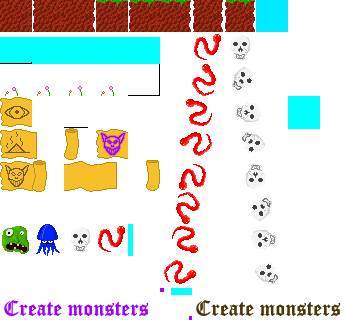
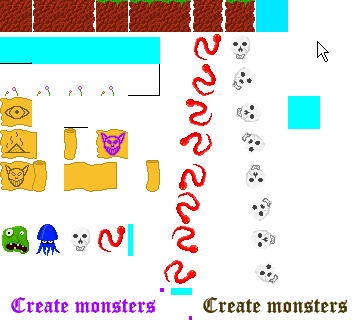
Roadmap gif. Moteur du jeu. Le petit script de gamecode qui générera l'animation. En cours. (5)

diff --git a/image_workshop_gif/roadmap/game_engine/anim.py b/image_workshop_gif/roadmap/game_engine/anim.py
@@ -1,21 +1,13 @@
 # https://raw.githubusercontent.com/darkrecher/squarity-doc/master/image_workshop_gif/roadmap/game_engine/draft.png
 
-"""
-TODO (dessins) :
- - ciel entièrement bleu
- - earth "left et right"
- - earth "up, left et right"
-"""
 
 """
-
-
 
   {
     "tile_size": 32,
     "game_area": {
         "nb_tile_width": 12,
-        "nb_tile_height": 10
+        "nb_tile_height": 9
     },
 
     "img_coords": {
@@ -26,101 +18,313 @@ TODO (dessins) :
       "earth_up": [96, 0],
       "earth_up_left": [128, 0],
       "earth_up_right": [160, 0],
+      "earth_left_right": [192, 0],
+      "earth_top": [224, 0],
 
       "spell_eye": [0, 96],
       "spell_heap": [0, 128],
       "spell_monster": [0, 160],
-      "scroll_left": [32, 160],
-      "scroll": [64, 160],
-      "scroll_right": [96, 160],
+      "spell_monster_activated": [96, 128],
+      "scroll_and_parchment": [32, 160],
+      "parchment": [64, 160],
+      "unrolled_parchment": [96, 160],
+      "unrolled_scroll": [128, 160],
+      "rolled_parchment": [32, 128],
+      "rolled_scroll": [64, 128],
+
+      "text_spell_norm_0": [192, 288],
+      "text_spell_norm_1": [224, 288],
+      "text_spell_norm_2": [256, 288],
+      "text_spell_norm_3": [288, 288],
+      "text_spell_norm_4": [320, 288],
+
+      "mouse_cursor_0_0_f": [299, 39],
+      "mouse_cursor_0_1_u": [303, 23],
+      "mouse_cursor_0_1_d": [303, 55],
+      "mouse_cursor_0_2_f": [309, 31],
+
+      "flowers_0": [0, 64],
+      "flowers_1": [32, 64],
+      "flowers_2": [64, 64],
+      "flowers_3": [96, 64],
+
+      "monster_green_0u": [0, 220],
+      "monster_green_0d": [0, 252],
+      "monster_green_1u": [0, 216],
+      "monster_green_1d": [0, 248],
+      "monster_green_2u": [0, 212],
+      "monster_green_2d": [0, 244],
+      "monster_green_3u": [0, 208],
+      "monster_green_3d": [0, 240],
+      "monster_green_4u": [0, 204],
+      "monster_green_4d": [0, 236],
+      "monster_green_5u": [0, 200],
+      "monster_green_5d": [0, 232],
+      "monster_green_6u": [0, 196],
+      "monster_green_6d": [0, 228],
+      "monster_green_7u": [0, 192],
+      "monster_green_7d": [0, 224],
+      "monster_green": [0, 224],
 
 
-
-      "sky": [192, 0],
+      "sky": [256, 0],
 
       "vide": [0, 0]
 
     }
   }
 
-
 """
 
 INITIAL_MAP = """
 E*..........
 H*..........
-M*..........
+M...........
 ............
 ............
-......./....
-.......|....
-.......|-...
-./=-...|1...
+.......+....
+.......I-...
+./=-...I1...
 =###===##===
 """
 
-ANIM_STEPS = (
-    ((1, 2, "+"),),
+SEQ_UNROLL_SPELL = (
     (
-        (1, 2, "~"),
-        (2, 2, "*"),
+        (1, 2, "rolled_parchment"),
+        (1, 2, "rolled_scroll"),
     ),
-    ((2, 2, "+"),),
     (
-        (2, 2, "~"),
-        (3, 2, "*"),
+        (1, 2, "unrolled_parchment"),
+        (1, 2, "text_spell_norm_0"),
+        (1, 2, "unrolled_scroll"),
     ),
-    ((3, 2, "+"),),
     (
-        (3, 2, "~"),
-        (4, 2, "*"),
+        (1, 2, "parchment"),
+        (1, 2, "text_spell_norm_0"),
+        (2, 2, "rolled_parchment"),
+        (2, 2, "rolled_scroll"),
+    ),
+    (
+        (1, 2, "parchment"),
+        (1, 2, "text_spell_norm_0"),
+        (2, 2, "unrolled_parchment"),
+        (2, 2, "text_spell_norm_1"),
+        (2, 2, "unrolled_scroll"),
+    ),
+    (
+        (1, 2, "parchment"),
+        (1, 2, "text_spell_norm_0"),
+        (2, 2, "parchment"),
+        (2, 2, "text_spell_norm_1"),
+        (3, 2, "rolled_parchment"),
+        (3, 2, "rolled_scroll"),
+    ),
+    (
+        (1, 2, "parchment"),
+        (1, 2, "text_spell_norm_0"),
+        (2, 2, "parchment"),
+        (2, 2, "text_spell_norm_1"),
+        (3, 2, "unrolled_parchment"),
+        (3, 2, "text_spell_norm_2"),
+        (3, 2, "unrolled_scroll"),
+    ),
+    (
+        (1, 2, "parchment"),
+        (1, 2, "text_spell_norm_0"),
+        (2, 2, "parchment"),
+        (2, 2, "text_spell_norm_1"),
+        (3, 2, "parchment"),
+        (3, 2, "text_spell_norm_2"),
+        (4, 2, "rolled_parchment"),
+        (4, 2, "rolled_scroll"),
+    ),
+    (
+        (1, 2, "parchment"),
+        (1, 2, "text_spell_norm_0"),
+        (2, 2, "parchment"),
+        (2, 2, "text_spell_norm_1"),
+        (3, 2, "parchment"),
+        (3, 2, "text_spell_norm_2"),
+        (4, 2, "unrolled_parchment"),
+        (4, 2, "text_spell_norm_3"),
+        (4, 2, "unrolled_scroll"),
+    ),
+    (
+        (1, 2, "parchment"),
+        (1, 2, "text_spell_norm_0"),
+        (2, 2, "parchment"),
+        (2, 2, "text_spell_norm_1"),
+        (3, 2, "parchment"),
+        (3, 2, "text_spell_norm_2"),
+        (4, 2, "parchment"),
+        (4, 2, "text_spell_norm_3"),
+        (5, 2, "rolled_parchment"),
+        (5, 2, "rolled_scroll"),
+    ),
+    (
+        (1, 2, "parchment"),
+        (1, 2, "text_spell_norm_0"),
+        (2, 2, "parchment"),
+        (2, 2, "text_spell_norm_1"),
+        (3, 2, "parchment"),
+        (3, 2, "text_spell_norm_2"),
+        (4, 2, "parchment"),
+        (4, 2, "text_spell_norm_3"),
+        (5, 2, "unrolled_parchment"),
+        (5, 2, "text_spell_norm_4"),
+        (5, 2, "unrolled_scroll"),
+    ),
+    (
+        (1, 2, "parchment"),
+        (1, 2, "text_spell_norm_0"),
+        (2, 2, "parchment"),
+        (2, 2, "text_spell_norm_1"),
+        (3, 2, "parchment"),
+        (3, 2, "text_spell_norm_2"),
+        (4, 2, "parchment"),
+        (4, 2, "text_spell_norm_3"),
+        (5, 2, "parchment"),
+        (5, 2, "text_spell_norm_4"),
+        (6, 2, "rolled_parchment"),
+        (6, 2, "rolled_scroll"),
     ),
 )
+
+SEQ_ROLL_SPELL = SEQ_UNROLL_SPELL[::-1]
+
+SEQ_GREEN_FALL = (
+    ((7, 3, "monster_green"),),
+    ((7, 3, "monster_green"),),
+    (
+        (7, 3, "monster_green_0u"),
+        (7, 4, "monster_green_0d"),
+    ),
+    (
+        (7, 3, "monster_green_1u"),
+        (7, 4, "monster_green_1d"),
+    ),
+    (
+        (7, 3, "monster_green_2u"),
+        (7, 4, "monster_green_2d"),
+    ),
+    (
+        (7, 3, "monster_green_3u"),
+        (7, 4, "monster_green_3d"),
+    ),
+    (
+        (7, 3, "monster_green_4u"),
+        (7, 4, "monster_green_4d"),
+    ),
+    (
+        (7, 3, "monster_green_5u"),
+        (7, 4, "monster_green_5d"),
+    ),
+    (
+        (7, 3, "monster_green_6u"),
+        (7, 4, "monster_green_6d"),
+    ),
+    (
+        (7, 3, "monster_green_7u"),
+        (7, 4, "monster_green_7d"),
+    ),
+    ((7, 4, "monster_green"),),
+    ((7, 4, "monster_green"),),
+)
+
+
+class AnimationSequence:
+    def __init__(self, gamobj_sequence, start_date, loop=False):
+        self.gamobj_sequence = gamobj_sequence
+        self.start_date = start_date
+        self.loop = loop
+        if loop:
+            self.end_date = None
+        else:
+            self.end_date = self.start_date + len(self.gamobj_sequence)
+
+    def get_end_date(self):
+        return self.end_date
+
+    def get_gamobjs_at_date(self, current_date):
+        if current_date < self.start_date:
+            return ()
+        if self.end_date is not None and current_date >= self.end_date:
+            return ()
+
+        current_date -= self.start_date
+        gamobjs_at_date = self.gamobj_sequence[current_date % len(self.gamobj_sequence)]
+        return gamobjs_at_date
 
 
 class GameModel:
 
     DICT_GAMOBJ_FROM_CHAR = {
         "#": "earth",
-        "|": "earth_left",
+        "I": "earth_left",
         "1": "earth_right",
         "=": "earth_up",
         "/": "earth_up_left",
         "-": "earth_up_right",
-        ".": "sky",
+        "|": "earth_left_right",
+        "+": "earth_top",
         "E": "spell_eye",
         "H": "spell_heap",
         "M": "spell_monster",
-        "*": "scroll_left",
-        "~": "scroll",
-        "+": "scroll_right",
+        "*": "scroll_and_parchment",
+        ".": None,
     }
 
     def __init__(self):
         self.w = 12
-        self.h = 10
+        self.h = 9
+        self.anim_sequences = (
+            AnimationSequence(SEQ_UNROLL_SPELL, 0),
+            AnimationSequence(SEQ_GREEN_FALL, 4),
+        )
         self.tiles = [[[] for x in range(self.w)] for y in range(self.h)]
+        end_dates = [
+            anim_seq.end_date
+            for anim_seq in self.anim_sequences
+            if anim_seq.end_date is not None
+        ]
+        self.end_date = max(end_dates)
 
-        initial_map = INITIAL_MAP.strip().split("\n")
+        # TODO
+        self.calculated_game_areas = []
+
+        self.initial_map = INITIAL_MAP.strip().split("\n")
+        self.current_step_index = 0
+        self.apply_anim_step()
+
+    def reset_game_area(self):
         for y in range(self.h):
             for x in range(self.w):
-                tile_char = initial_map[y][x]
-                self.tiles[y][x].append(GameModel.DICT_GAMOBJ_FROM_CHAR[tile_char])
+                tile_char = self.initial_map[y][x]
+                gamobj = GameModel.DICT_GAMOBJ_FROM_CHAR[tile_char]
+                if gamobj is None:
+                    current_game_objects = ["sky"]
+                else:
+                    current_game_objects = ["sky", gamobj]
+                self.tiles[y][x][:] = current_game_objects
 
-        self.current_step_index = 0
-
-    def apply_anim_step(self, anim_step):
-        for x, y, tile_char in anim_step:
-            self.tiles[y][x][:] = [GameModel.DICT_GAMOBJ_FROM_CHAR[tile_char]]
+    def apply_anim_step(self):
+        self.reset_game_area()
+        for anim_seq in self.anim_sequences:
+            seq_gamobjs = anim_seq.get_gamobjs_at_date(self.current_step_index)
+            for x, y, gamobj in seq_gamobjs:
+                self.tiles[y][x].append(gamobj)
 
     def export_all_tiles(self):
         return self.tiles
 
     def on_game_event(self, event_name):
-        if self.current_step_index >= len(ANIM_STEPS):
-            print("C'est fini !!")
-            return
+        if event_name in ("U", "L"):
+            self.current_step_index -= 1
+            if self.current_step_index < 0:
+                self.current_step_index = 0
+        elif event_name in ("D", "R"):
+            self.current_step_index += 1
+            if self.current_step_index >= self.end_date:
+                self.current_step_index = self.end_date - 1
 
-        current_anim_step = ANIM_STEPS[self.current_step_index]
-        self.apply_anim_step(current_anim_step)
-        self.current_step_index += 1
+        self.apply_anim_step()
